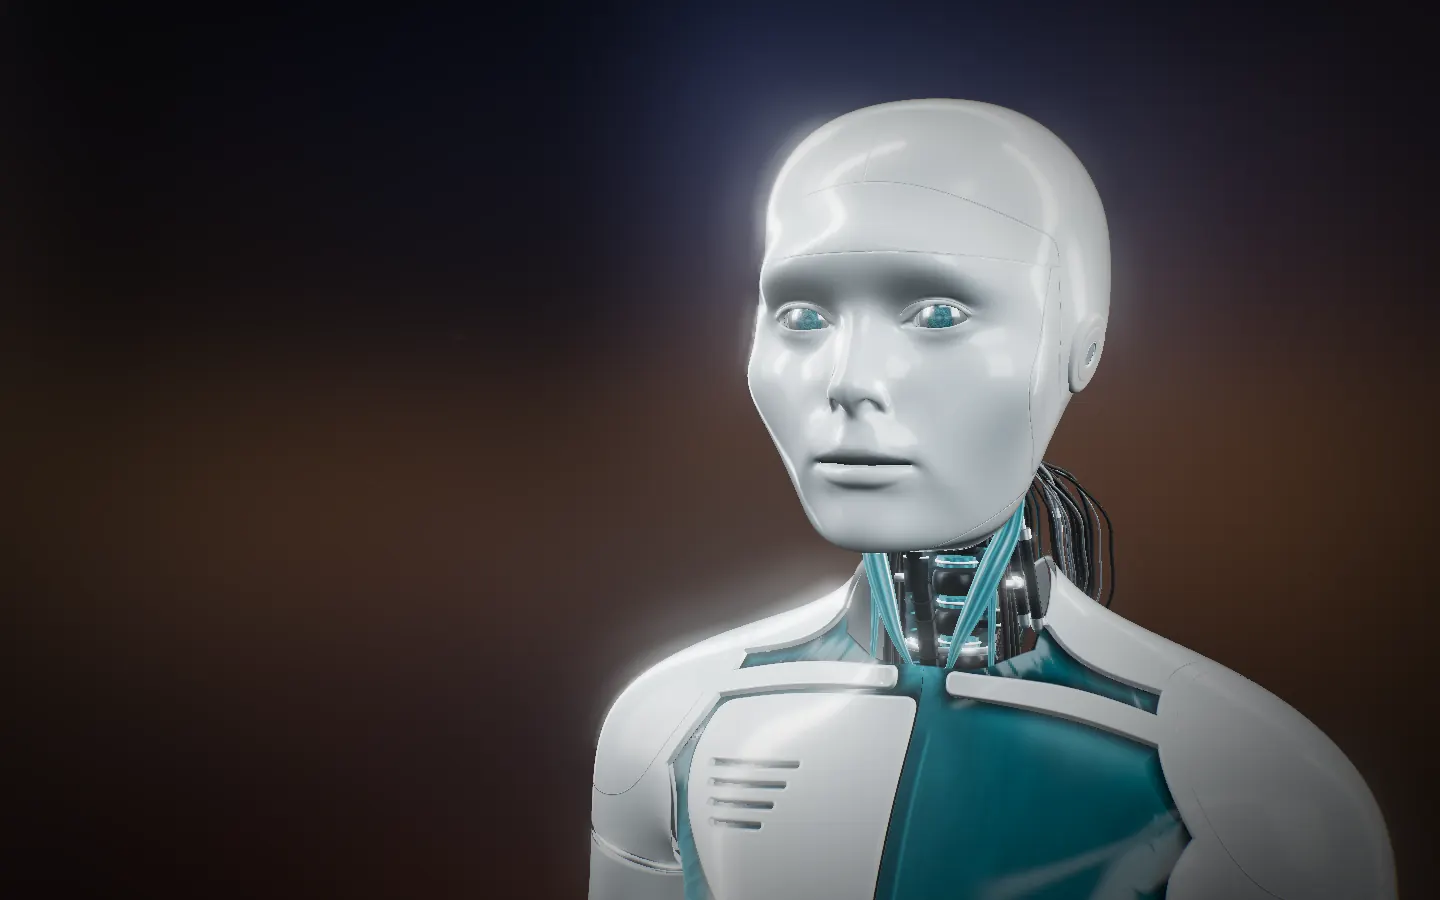
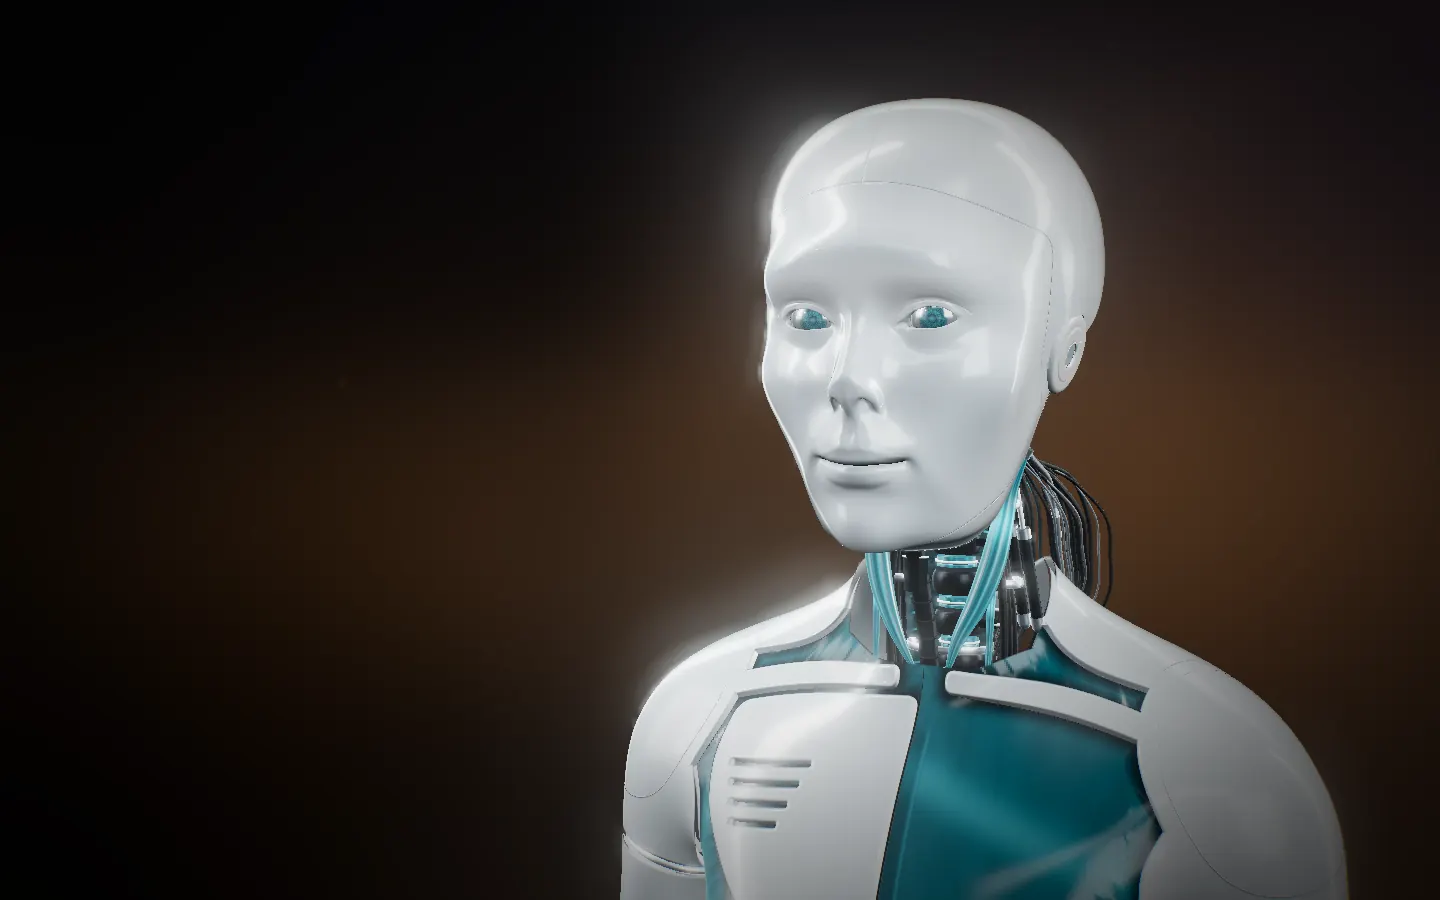
Poster neu (Gesicht D, Hellmodus), OG-Bild mit Marke Codani
Alle 14 hellen Poster und die dunklen Poster mit Gesicht (robot, zoom,
outro) neu aufgenommen. Verlauf über den hellen Postern beginnt links
deckend, damit keine harte Kante zum Off-White entsteht. Das Vorschaubild
beim Teilen zeigt jetzt Codani statt Jonas Grüter.

Claude-Session: https://claude.ai/code/session_01P2Mm3vCZRaVyvtNngVWocU

diff --git a/js/theme.js b/js/theme.js
@@ -7,8 +7,10 @@
 // (engine.compileScene), dann weiche Blende (View Transition des Browsers, sonst im FxPass). Beim Klick auf den
 // Schalter zuerst die Szene, dann die Seite (window.__codaniTheme.prepare, ARCHITEKTUR.md Kapitel 14).
 //
-// Hell: Partikel, Linien, Kabel, Code-Zeichen und das Website-Geruest sind dunkle Tinte mit normalem Blending statt
-// additivem Leuchten. Dafuer bekommt jedes additive ShaderMaterial der Szenen beim Laden einen Zusatz (patchScene),
+// Hell: Draussen (Hero, Bueste, Ausklang) sind Partikel und Linien dunkle Tinte mit normalem Blending statt additivem
+// Leuchten. Im Kopf (Gehirn, Kabel, Code und Website-Geruest) liegt im hellen Thema ein Abendlicht-Hintergrund, dort
+// leuchten die Materialien wie dunkel (themeKeep in brain.js, cables.js, dna.js; ARCHITEKTUR.md Kapitel 14).
+// Fuer die Tinte bekommt jedes additive ShaderMaterial der Szenen beim Laden einen Zusatz (patchScene),
 // der NUR mit dem Define CODANI_LIGHT in den Shader kommt: main() der Szene laeuft unveraendert, danach rechnet der
 // Zusatz die Farbe in Tinte um (Deckkraft aus der Leuchtkraft). Dunkel ist der Shader-Text genau der bisherige: gleiche
 // Programme, gleiche Rechenarbeit pro Bildpunkt. Die hellen Programme entstehen erst, wenn jemand hell waehlt.

diff --git a/css/story.css b/css/story.css
@@ -1147,9 +1147,11 @@ html[data-theme="hell"] {
     radial-gradient(22vmax 18vmax at 64% 40%, rgba(255, 164, 92, 0.05), transparent 70%),
     var(--c-void);
 }
+/* Links deckend beginnen: seit dem Studio-Hintergrund (08.11.2026) sind die hellen Poster farbig und im Kopf
+   mitteltonig; mit 0.9 am Rand stand sonst eine harte Kante zum Off-White daneben. */
 [data-theme="hell"]:is(.no-gl, .no-js) .chapter__poster::after {
   background:
-    linear-gradient(90deg, rgba(243, 245, 247, 0.9) 0%, rgba(243, 245, 247, 0.58) 34%, rgba(243, 245, 247, 0) 62%),
+    linear-gradient(90deg, var(--c-void) 0%, rgba(243, 245, 247, 0.86) 12%, rgba(243, 245, 247, 0.58) 34%, rgba(243, 245, 247, 0) 62%),
     linear-gradient(to bottom, var(--c-void) 0, rgba(243, 245, 247, 0) 14%, rgba(243, 245, 247, 0) 82%, var(--c-void) 100%);
 }
 [data-theme="hell"]:is(.no-gl, .no-js) [data-scene="intro"] .chapter__poster { background-image: url('../assets/img/poster-intro-hell.webp'); }

diff --git a/ARCHITEKTUR.md b/ARCHITEKTUR.md
@@ -1201,6 +1201,14 @@ intro und dna stammten noch vom 03.11. mit hellem Scrim). Aufnahme mit `abnahme/
 --reload`, Handy `--vp=540x1170`), Umwandlung wie oben. Die übrigen sechs Desktop-Poster sind unverändert aktuell
 (neu aufgenommen und verglichen: Unterschiede nur durch Bewegung).
 
+08.11.2026 (Gesicht D, Studio-Hintergrund und Abendlicht im Kopf): alle 14 hellen Poster mit `posters_hell.js` neu,
+dazu die dunklen `poster-robot`, `poster-zoom` und `poster-outro` (Desktop und `-m`) mit Gesicht D, aufgenommen mit
+derselben Vorlage auf `?q=high&dunkel` (`studio-arbeit/poster-0811/tools/posters_dunkel.js`). Die übrigen dunklen Poster
+zeigen kein Gesicht und bleiben (dunkel ist pixelgleich). Weil die hellen Poster jetzt farbig und im Kopf mitteltonig
+sind, beginnt der waagrechte Verlauf über dem Poster am Desktop links deckend (`var(--c-void)`), sonst stand eine harte
+Kante zum Off-White daneben. Das OG-Bild (`assets/img/og.jpg`) trägt jetzt die Marke "Codani" statt "Jonas Grüter"
+(Vorlage `studio-arbeit/poster-0811/og/og.html`, Hintergrund unverändert die Partikel-Büste).
+
 ### Testen
 
 ```
